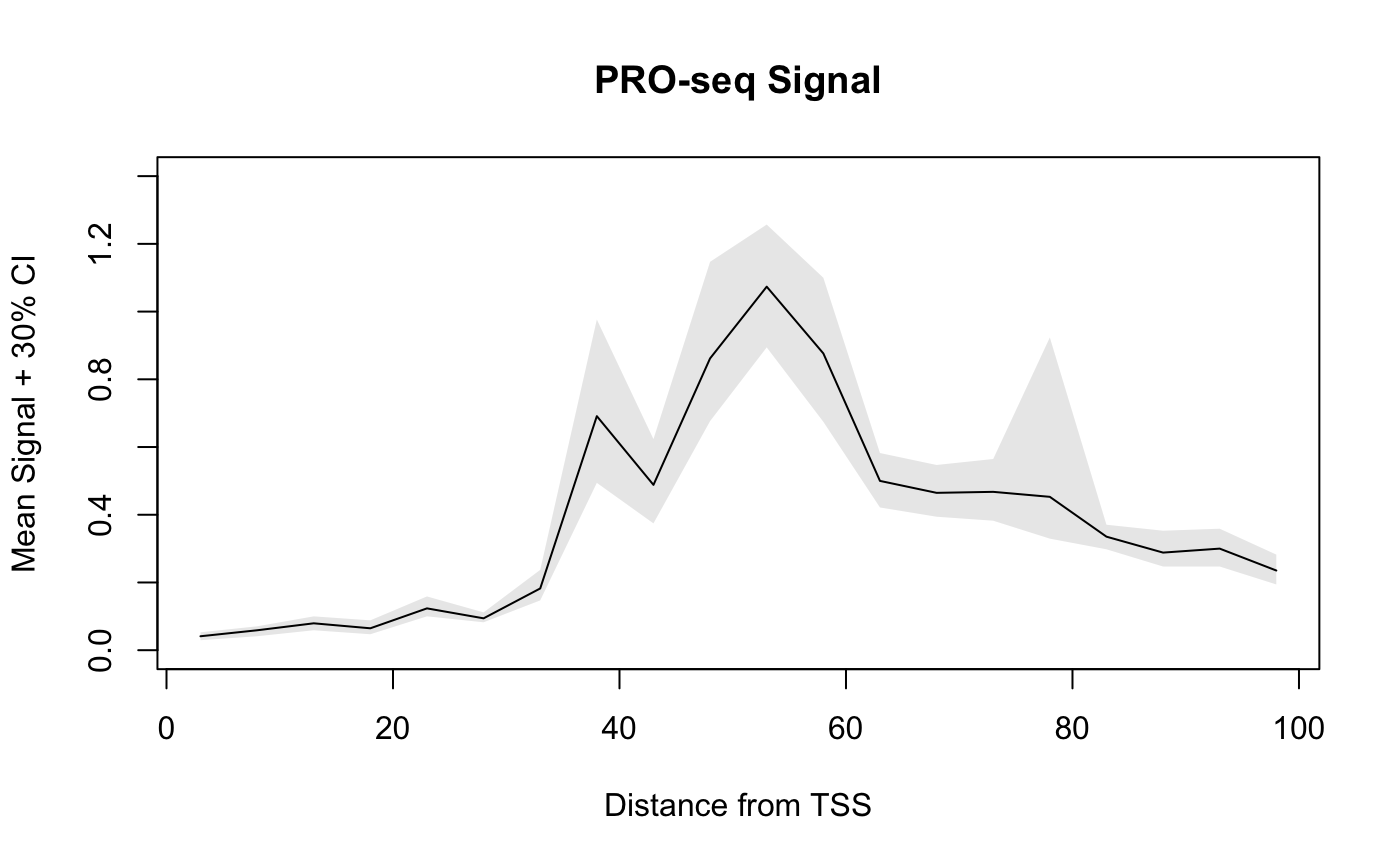
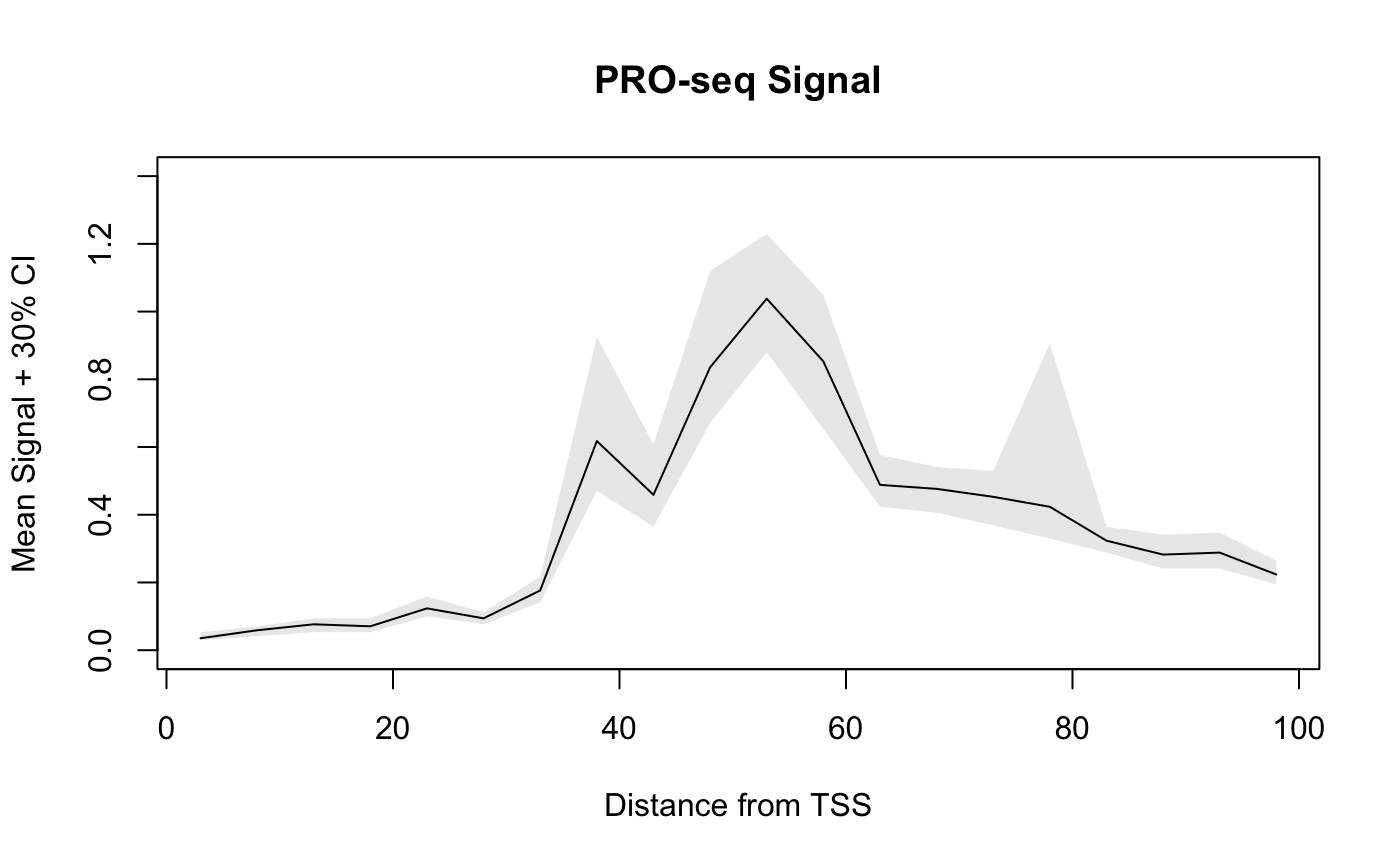
v1.1.1

diff --git a/articles/ProfilePlotsAndBootstrapping.html b/articles/ProfilePlotsAndBootstrapping.html
@@ -31,7 +31,7 @@
       </button>
       <span class="navbar-brand">
         <a class="navbar-link" href="../index.html">BRGenomics</a>
-        <span class="version label label-default" data-toggle="tooltip" data-placement="bottom" title="Released version">0.99.33</span>
+        <span class="version label label-default" data-toggle="tooltip" data-placement="bottom" title="Released version">1.1.1</span>
       </span>
     </div>
 
@@ -183,12 +183,12 @@
 <a class="sourceLine" id="cb5-2" data-line-number="2">                              <span class="dt">lower =</span> <span class="fl">0.35</span>, <span class="dt">upper =</span> <span class="fl">0.65</span>, <span class="dt">ncores =</span> <span class="dv">1</span>)</a>
 <a class="sourceLine" id="cb5-3" data-line-number="3"><span class="kw"><a href="https://rdrr.io/r/utils/head.html">head</a></span>(bootmeans.df)</a></code></pre></div>
 <pre><code>##    x       mean      lower      upper sample.name
-## 1  3 0.04117647 0.02941176 0.05294118      PROseq
+## 1  3 0.03529412 0.02941176 0.05294118      PROseq
 ## 2  8 0.05882353 0.04117647 0.07058824      PROseq
-## 3 13 0.07941176 0.05882353 0.10000000      PROseq
-## 4 18 0.06470588 0.04705882 0.08823529      PROseq
+## 3 13 0.07647059 0.05294118 0.09411765      PROseq
+## 4 18 0.07058824 0.05294118 0.09411765      PROseq
 ## 5 23 0.12352941 0.10000000 0.15882353      PROseq
-## 6 28 0.09411765 0.08235294 0.11176471      PROseq</code></pre>
+## 6 28 0.09411765 0.07647059 0.11176471      PROseq</code></pre>
 <p>A dataframe is returned for plotting, and notice how the x-values have been automatically adjusted to be the center of the bins.</p>
 <p>Below, we show how to plot the confidence bands using base R plotting, as well as <code>ggplot2</code>.</p>
 <div class="sourceCode" id="cb7"><pre class="sourceCode r"><code class="sourceCode r"><a class="sourceLine" id="cb7-1" data-line-number="1"><span class="kw"><a href="https://rdrr.io/r/graphics/plot.html">plot</a></span>(mean <span class="op">~</span><span class="st"> </span>x, <span class="dt">data =</span> bootmeans.df, <span class="dt">type =</span> <span class="st">"l"</span>, </a>
@@ -228,8 +228,8 @@
 ## 1  3 0.01176471 0.005882353 0.01764706         ps1
 ## 2  8 0.01764706 0.011764706 0.02352941         ps1
 ## 3 13 0.01764706 0.011764706 0.02352941         ps1
-## 4 18 0.04117647 0.023529412 0.05294118         ps1
-## 5 23 0.02941176 0.017647059 0.04323529         ps1
+## 4 18 0.04117647 0.023529412 0.04705882         ps1
+## 5 23 0.02941176 0.017647059 0.04705882         ps1
 ## 6 28 0.02941176 0.023529412 0.04117647         ps1</code></pre>
 <div class="sourceCode" id="cb14"><pre class="sourceCode r"><code class="sourceCode r"><a class="sourceLine" id="cb14-1" data-line-number="1"><span class="kw"><a href="https://rdrr.io/r/base/library.html">require</a></span>(ggplot2)</a>
 <a class="sourceLine" id="cb14-2" data-line-number="2"><span class="kw"><a href="https://ggplot2.tidyverse.org/reference/ggplot.html">ggplot</a></span>(bm_list.df, <span class="kw"><a href="https://ggplot2.tidyverse.org/reference/aes.html">aes</a></span>(x, mean, <span class="dt">color =</span> sample.name)) <span class="op">+</span><span class="st"> </span></a>

diff --git a/news/index.html b/news/index.html
@@ -67,7 +67,7 @@
       </button>
       <span class="navbar-brand">
         <a class="navbar-link" href="../index.html">BRGenomics</a>
-        <span class="version label label-default" data-toggle="tooltip" data-placement="bottom" title="Released version">0.99.33</span>
+        <span class="version label label-default" data-toggle="tooltip" data-placement="bottom" title="Released version">1.1.1</span>
       </span>
     </div>
 
@@ -149,6 +149,16 @@
       
     </div>
 
+    <div id="brgenomics-1-0-1-release-1-1-1-devel" class="section level2">
+<h2 class="hasAnchor">
+<a href="#brgenomics-1-0-1-release-1-1-1-devel" class="anchor"></a>BRGenomics 1.0.1 (release) &amp; 1.1.1 (devel)</h2>
+<ul>
+<li>Merge changes from 0.99.33 into release branch</li>
+<li>Bug workaround for <code><a href="../reference/getStrandedCoverage.html">getStrandedCoverage()</a></code> and dependent methods for getting coverage of normalized data (apparent bug in <code><a href="https://rdrr.io/pkg/IRanges/man/coverage-methods.html">IRanges::coverage()</a></code> for weighting by normalized values)</li>
+<li>Bug fix in <code><a href="../reference/getCountsByPositions.html">getCountsByPositions()</a></code> for getting counts over an unstranded region with <code>expand_ranges=TRUE</code>
+</li>
+</ul>
+</div>
     <div id="brgenomics-0-99-33" class="section level2">
 <h2 class="hasAnchor">
 <a href="#brgenomics-0-99-33" class="anchor"></a>BRGenomics 0.99.33</h2>
@@ -439,6 +449,7 @@
     <div id="tocnav">
       <h2>Contents</h2>
       <ul class="nav nav-pills nav-stacked">
+        <li><a href="#brgenomics-1-0-1-release-1-1-1-devel">1.0.1</a></li>
         <li><a href="#brgenomics-0-99-33">0.99.33</a></li>
         <li><a href="#brgenomics-0-99-30">0.99.30</a></li>
         <li><a href="#brgenomics-0-99-25">0.99.25</a></li>

diff --git a/reference/binNdimensions.html b/reference/binNdimensions.html
@@ -70,7 +70,7 @@ summarize the datapoints that fall into any of these n-dimensional bins." />
       </button>
       <span class="navbar-brand">
         <a class="navbar-link" href="../index.html">BRGenomics</a>
-        <span class="version label label-default" data-toggle="tooltip" data-placement="bottom" title="Released version">0.99.33</span>
+        <span class="version label label-default" data-toggle="tooltip" data-placement="bottom" title="Released version">1.1.1</span>
       </span>
     </div>
 

diff --git a/reference/import_bam.html b/reference/import_bam.html
@@ -70,7 +70,7 @@ processing options. It is highly recommend to index the BAM file first." />
       </button>
       <span class="navbar-brand">
         <a class="navbar-link" href="../index.html">BRGenomics</a>
-        <span class="version label label-default" data-toggle="tooltip" data-placement="bottom" title="Released version">0.99.33</span>
+        <span class="version label label-default" data-toggle="tooltip" data-placement="bottom" title="Released version">1.1.1</span>
       </span>
     </div>
 

diff --git a/reference/txs_dm6_chr4.html b/reference/txs_dm6_chr4.html
@@ -73,7 +73,7 @@ the TxDb package using GenomicFeatures version 1.35.11 on 2019-12-19." />
       </button>
       <span class="navbar-brand">
         <a class="navbar-link" href="../index.html">BRGenomics</a>
-        <span class="version label label-default" data-toggle="tooltip" data-placement="bottom" title="Released version">0.99.33</span>
+        <span class="version label label-default" data-toggle="tooltip" data-placement="bottom" title="Released version">1.1.1</span>
       </span>
     </div>
 

diff --git a/reference/getCountsByRegions.html b/reference/getCountsByRegions.html
@@ -73,7 +73,7 @@ overlapping each region, while expand_regions = TRUE will calculate
       </button>
       <span class="navbar-brand">
         <a class="navbar-link" href="../index.html">BRGenomics</a>
-        <span class="version label label-default" data-toggle="tooltip" data-placement="bottom" title="Released version">0.99.33</span>
+        <span class="version label label-default" data-toggle="tooltip" data-placement="bottom" title="Released version">1.1.1</span>
       </span>
     </div>
 

diff --git a/reference/BRGenomics-package.html b/reference/BRGenomics-package.html
@@ -74,7 +74,7 @@ For interactive documentation with code examples, see the online
       </button>
       <span class="navbar-brand">
         <a class="navbar-link" href="../index.html">BRGenomics</a>
-        <span class="version label label-default" data-toggle="tooltip" data-placement="bottom" title="Released version">0.99.33</span>
+        <span class="version label label-default" data-toggle="tooltip" data-placement="bottom" title="Released version">1.1.1</span>
       </span>
     </div>
 

diff --git a/reference/genebodies.html b/reference/genebodies.html
@@ -70,7 +70,7 @@ start and end sites of regions of interest (usually genes)." />
       </button>
       <span class="navbar-brand">
         <a class="navbar-link" href="../index.html">BRGenomics</a>
-        <span class="version label label-default" data-toggle="tooltip" data-placement="bottom" title="Released version">0.99.33</span>
+        <span class="version label label-default" data-toggle="tooltip" data-placement="bottom" title="Released version">1.1.1</span>
       </span>
     </div>
 

diff --git a/reference/getStrandedCoverage.html b/reference/getStrandedCoverage.html
@@ -70,7 +70,7 @@ Function also works for non-strand-specific data." />
       </button>
       <span class="navbar-brand">
         <a class="navbar-link" href="../index.html">BRGenomics</a>
-        <span class="version label label-default" data-toggle="tooltip" data-placement="bottom" title="Released version">0.99.33</span>
+        <span class="version label label-default" data-toggle="tooltip" data-placement="bottom" title="Released version">1.1.1</span>
       </span>
     </div>
 

diff --git a/reference/getDESeqResults.html b/reference/getDESeqResults.html
@@ -75,7 +75,7 @@ being compared, and not for all samples present." />
       </button>
       <span class="navbar-brand">
         <a class="navbar-link" href="../index.html">BRGenomics</a>
-        <span class="version label label-default" data-toggle="tooltip" data-placement="bottom" title="Released version">0.99.33</span>
+        <span class="version label label-default" data-toggle="tooltip" data-placement="bottom" title="Released version">1.1.1</span>
       </span>
     </div>
 

diff --git a/reference/bootstrap-signal-by-position.html b/reference/bootstrap-signal-by-position.html
@@ -73,7 +73,7 @@ base-pair resolution, or over larger bins." />
       </button>
       <span class="navbar-brand">
         <a class="navbar-link" href="../index.html">BRGenomics</a>
-        <span class="version label label-default" data-toggle="tooltip" data-placement="bottom" title="Released version">0.99.33</span>
+        <span class="version label label-default" data-toggle="tooltip" data-placement="bottom" title="Released version">1.1.1</span>
       </span>
     </div>
 

diff --git a/reference/makeGRangesBRG.html b/reference/makeGRangesBRG.html
@@ -73,7 +73,7 @@ is a basepair resolution GRanges object." />
       </button>
       <span class="navbar-brand">
         <a class="navbar-link" href="../index.html">BRGenomics</a>
-        <span class="version label label-default" data-toggle="tooltip" data-placement="bottom" title="Released version">0.99.33</span>
+        <span class="version label label-default" data-toggle="tooltip" data-placement="bottom" title="Released version">1.1.1</span>
       </span>
     </div>
 
